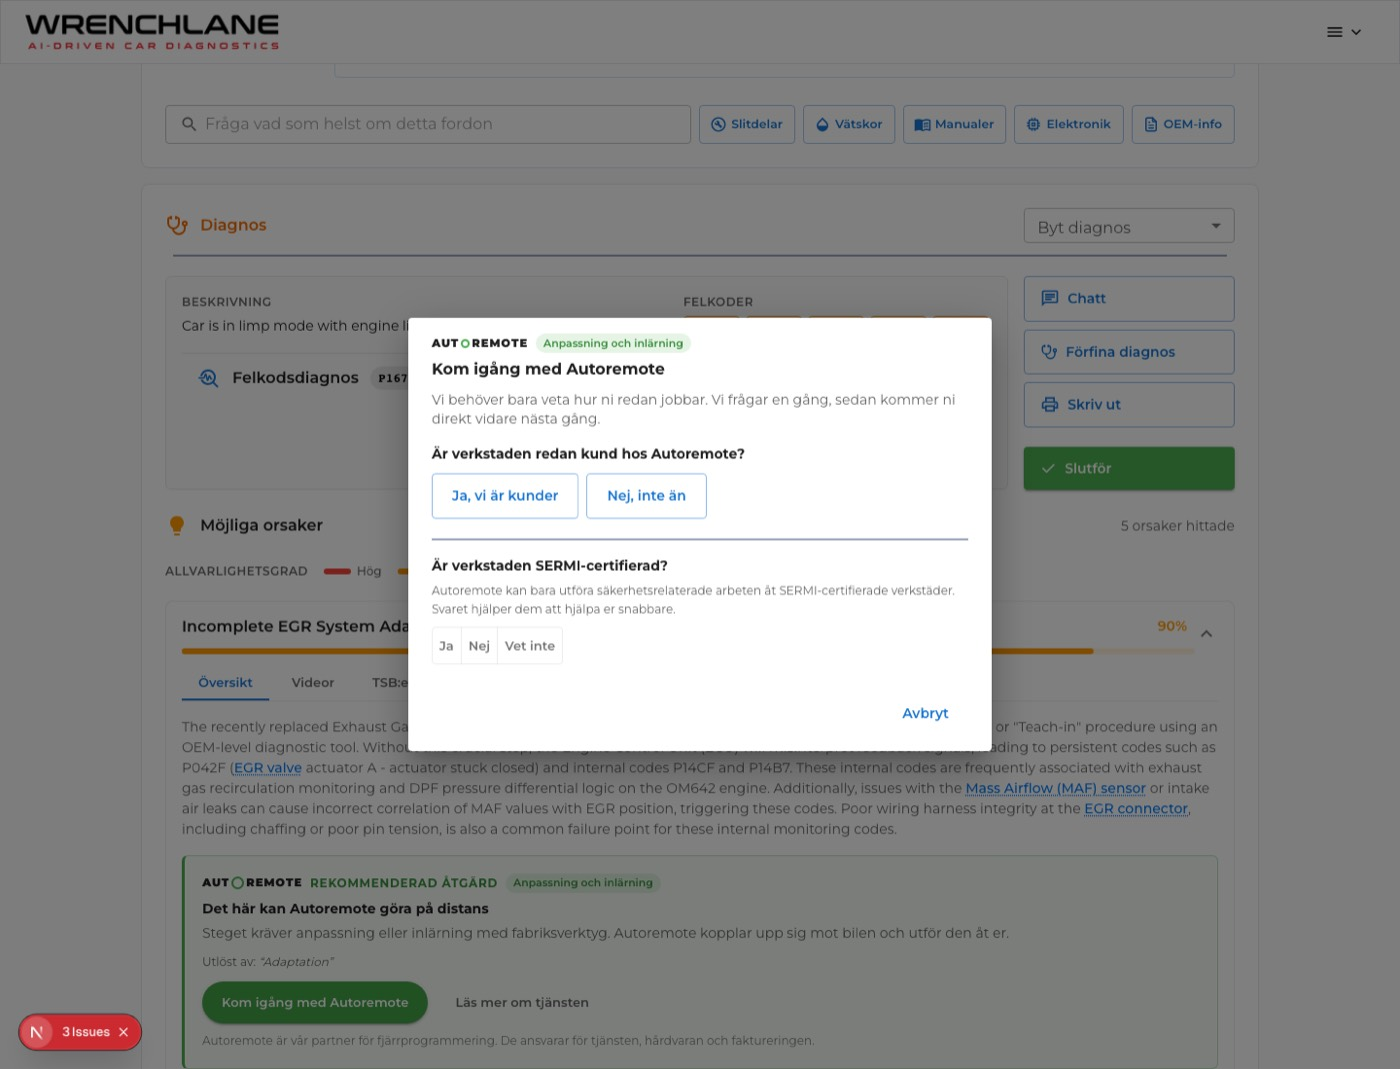
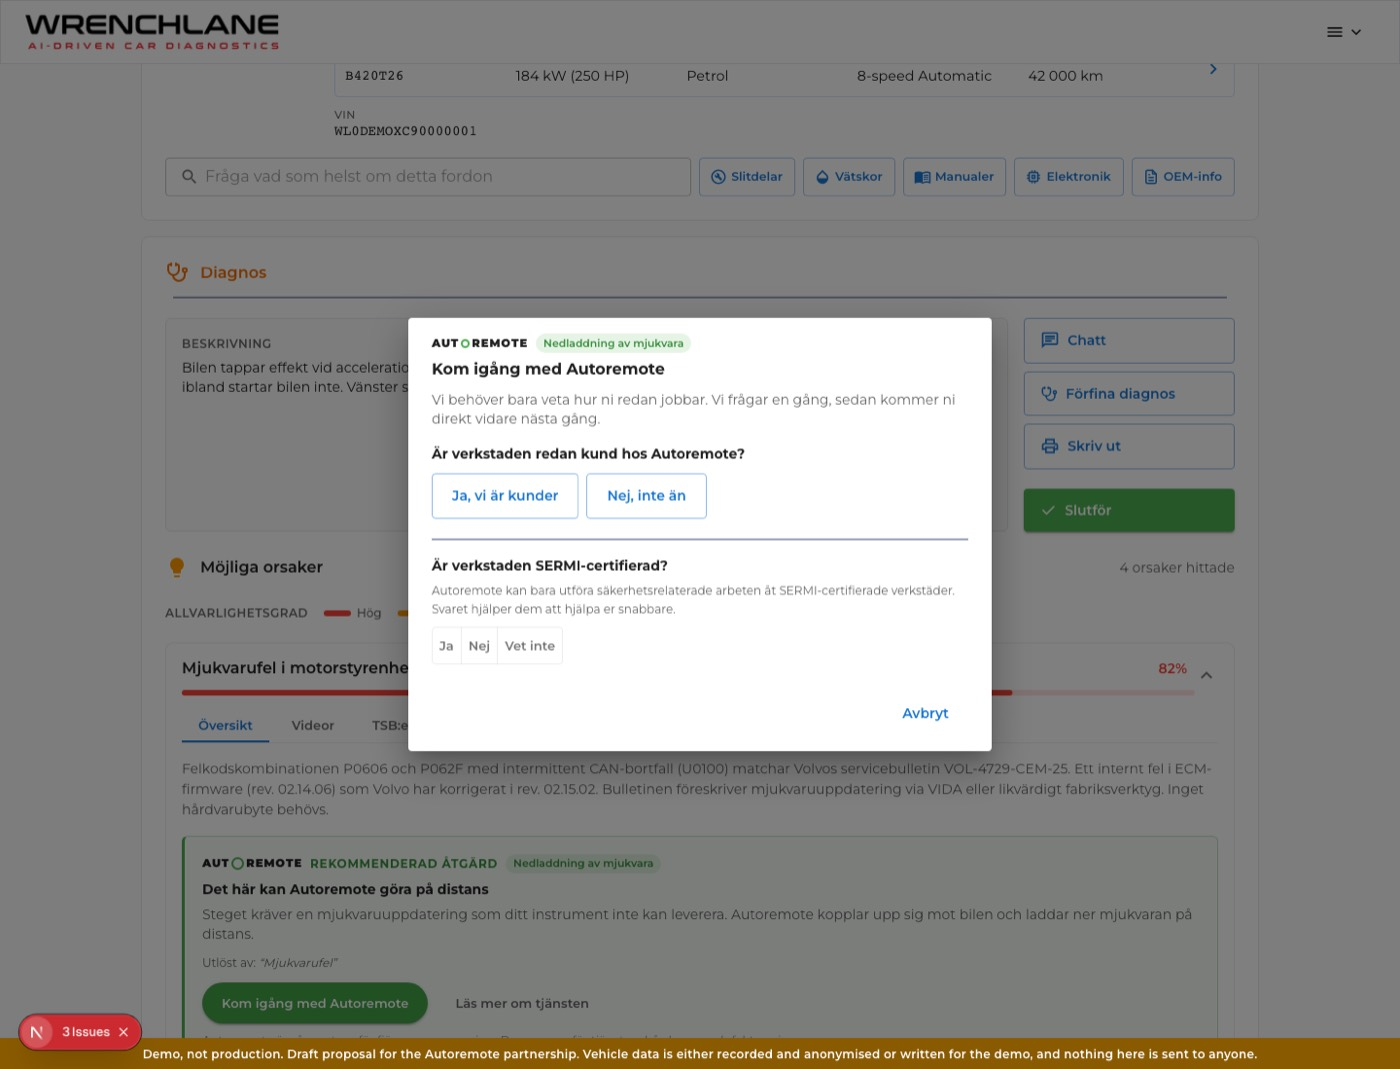
Lead the Mockup page with DEM001, the purpose-built demo car
Reviewing the draft meant clicking between a Mercedes and a VW to see different
Autoremote surfaces. DEM001, a Volvo XC90, shows the whole story in one vehicle,
so the page now opens with it and adds a button that jumps straight there.

Its fault codes and bulletins come from Magnus's own mock-up deck rather than
being invented, so the demo matches what he has already seen.

The VW intake leak stays on the page on purpose: it is real recorded production
data where nothing needs programming and nothing is offered, and that restraint
is what makes the offer credible.

diff --git a/src/components/mockup/mockup-client.tsx b/src/components/mockup/mockup-client.tsx
@@ -32,16 +32,28 @@ interface Shot {
 
 const SHOTS: Shot[] = [
   {
-    file: "ar-hero.jpg",
-    title: "The trigger, on a real case",
+    file: "demo-xc90.jpg",
+    title: "The demo car: DEM001",
     caption:
-      "A Mercedes GL X164 whose EGR valve was replaced and which is still in limp mode. The 90% cause, generated by WrenchLane in production, is “Incomplete EGR System Adaptation”, needing a teach-in on an OEM-level tool. The block names the phrase that triggered it, so it reads as a diagnosis rather than an advert.",
+      "A Volvo XC90 built so one vehicle shows the whole story, rather than hunting for a case that happens to contain it. Its fault codes and bulletins come from Magnus\u2019s own mock-up deck: P0606 and P062F with intermittent CAN dropout (U0100) for the ECM software fault, and B1085 for the unpaired headlamp. The 82% cause raises the software handoff.",
+  },
+  {
+    file: "demo-tsbtab.jpg",
+    title: "Bulletins, two of four",
+    caption:
+      "The strip counts only what Autoremote can actually take. The ECM software update and the headlamp coding count. The CAN-bus guide does not, and neither does Magnus\u2019s safety recall, because a recall is free dealer work.",
+  },
+  {
+    file: "demo-step6.jpg",
+    title: "Parked on the programming",
+    caption:
+      "Five of six repair steps ticked. The mechanical work is done and the job is waiting on the coding and calibration, which is the entire Autoremote pitch in a single screen.",
   },
   {
     file: "ar-quiet.jpg",
     title: "And when it stays quiet",
     caption:
-      "The same feature on a VW Touareg intake leak. Nothing about that diagnosis needs programming, so nothing is offered. Two of five causes trigger on the Mercedes, three do not. The restraint is what makes the offer credible.",
+      "The same feature on a VW Touareg intake leak, from real recorded production data. Nothing about that diagnosis needs programming, so nothing is offered. The restraint is what makes the offer credible.",
   },
   {
     file: "ar-1-gate.jpg",
@@ -53,13 +65,7 @@ const SHOTS: Shot[] = [
     file: "ar-2-form.jpg",
     title: "The referral",
     caption:
-      "Autoremote’s own six fields, pre filled, plus the vehicle, all five fault codes and the job. Their public order form captures none of that. Send stays disabled until consent is ticked.",
-  },
-  {
-    file: "ar-3-sent.jpg",
-    title: "Handed over",
-    caption:
-      "Autoremote takes over onboarding, hardware, delivery and the invoice. WrenchLane’s job ends here, which is exactly the affiliate boundary the notes drew.",
+      "Autoremote\u2019s own six fields, pre filled, plus the vehicle, the fault codes and the job. Their public order form captures none of that. Send stays disabled until consent is ticked.",
   },
   {
     file: "ar-5-handoff.jpg",
@@ -71,7 +77,7 @@ const SHOTS: Shot[] = [
     file: "ar-pricing.jpg",
     title: "Pricing, deliberately not a plan",
     caption:
-      "A partner strip that sells nothing, shaped like the data-partner strip below it. This replaces the sketch’s “Premium + Autoremote” tier. See the three flags below for why.",
+      "A partner strip that sells nothing, sitting above the existing data-partner strip and shaped like it. This is what replaces the sketch\u2019s bundled tier. See the three flags below for why.",
   },
 ];
 
@@ -138,6 +144,14 @@ export function MockupClient() {
             Clickable mockup not deployed yet. Set NEXT_PUBLIC_MOCKUP_URL to link it here.
           </span>
         )}
+        <a
+          href={`${LIVE_URL}/sv/start/vehicle/diagnostic/dem00100-0000-4000-8000-000000000001`}
+          target="_blank"
+          rel="noopener noreferrer"
+          className="rounded-md border border-slate-300 bg-white px-4 py-2 text-sm font-medium text-slate-700 hover:bg-slate-50"
+        >
+          Jump straight to DEM001
+        </a>
         <a
           href={PLAN_URL}
           target="_blank"
